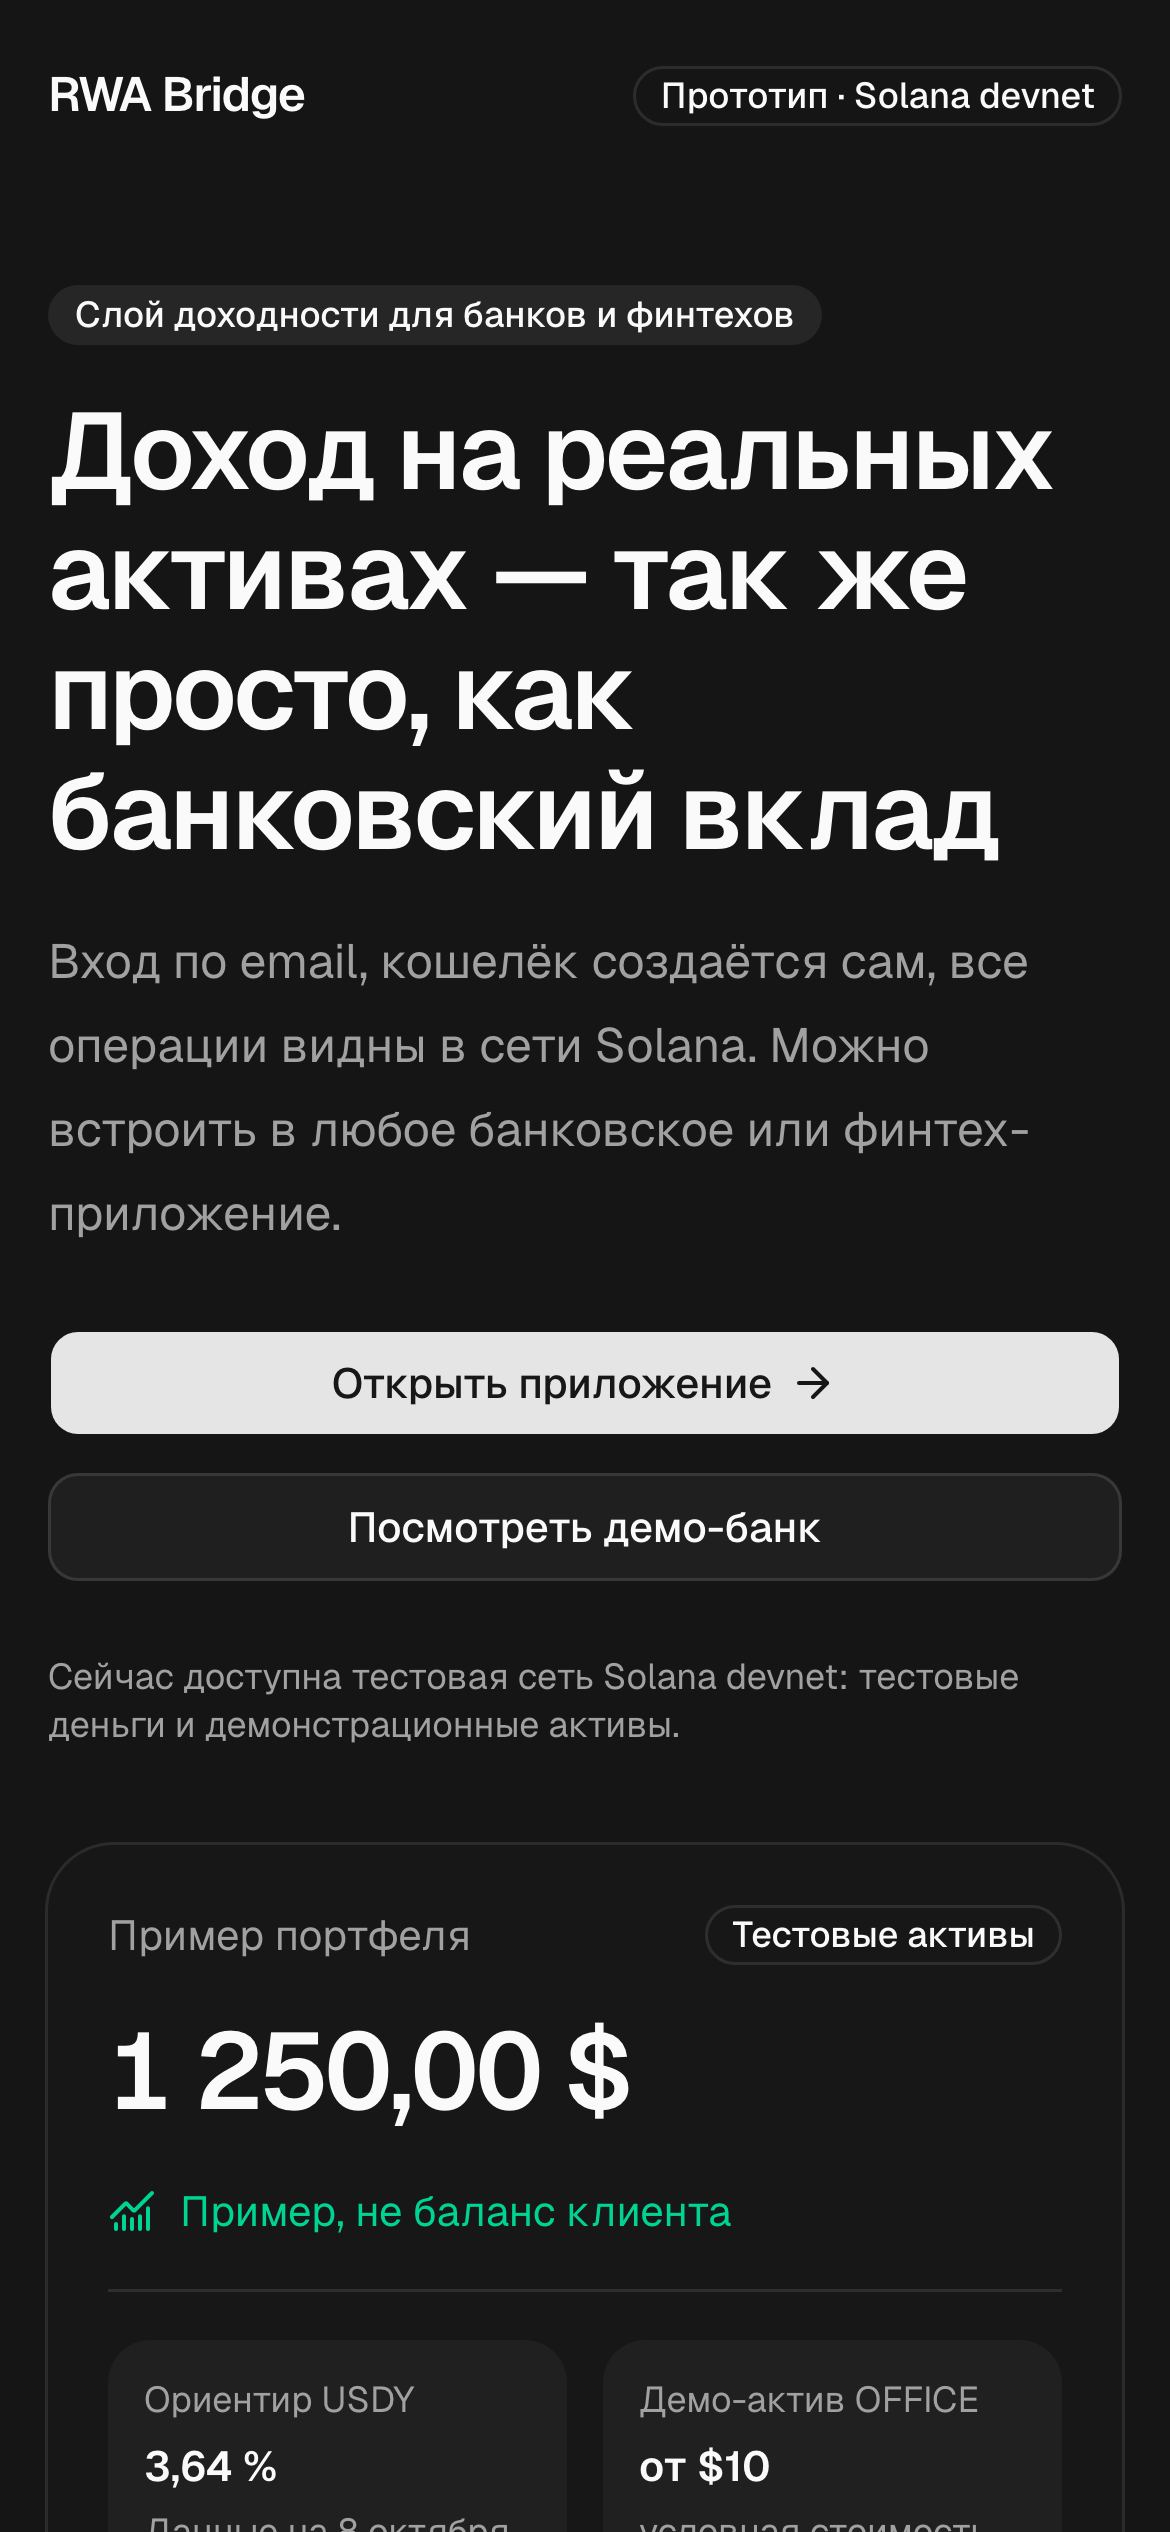
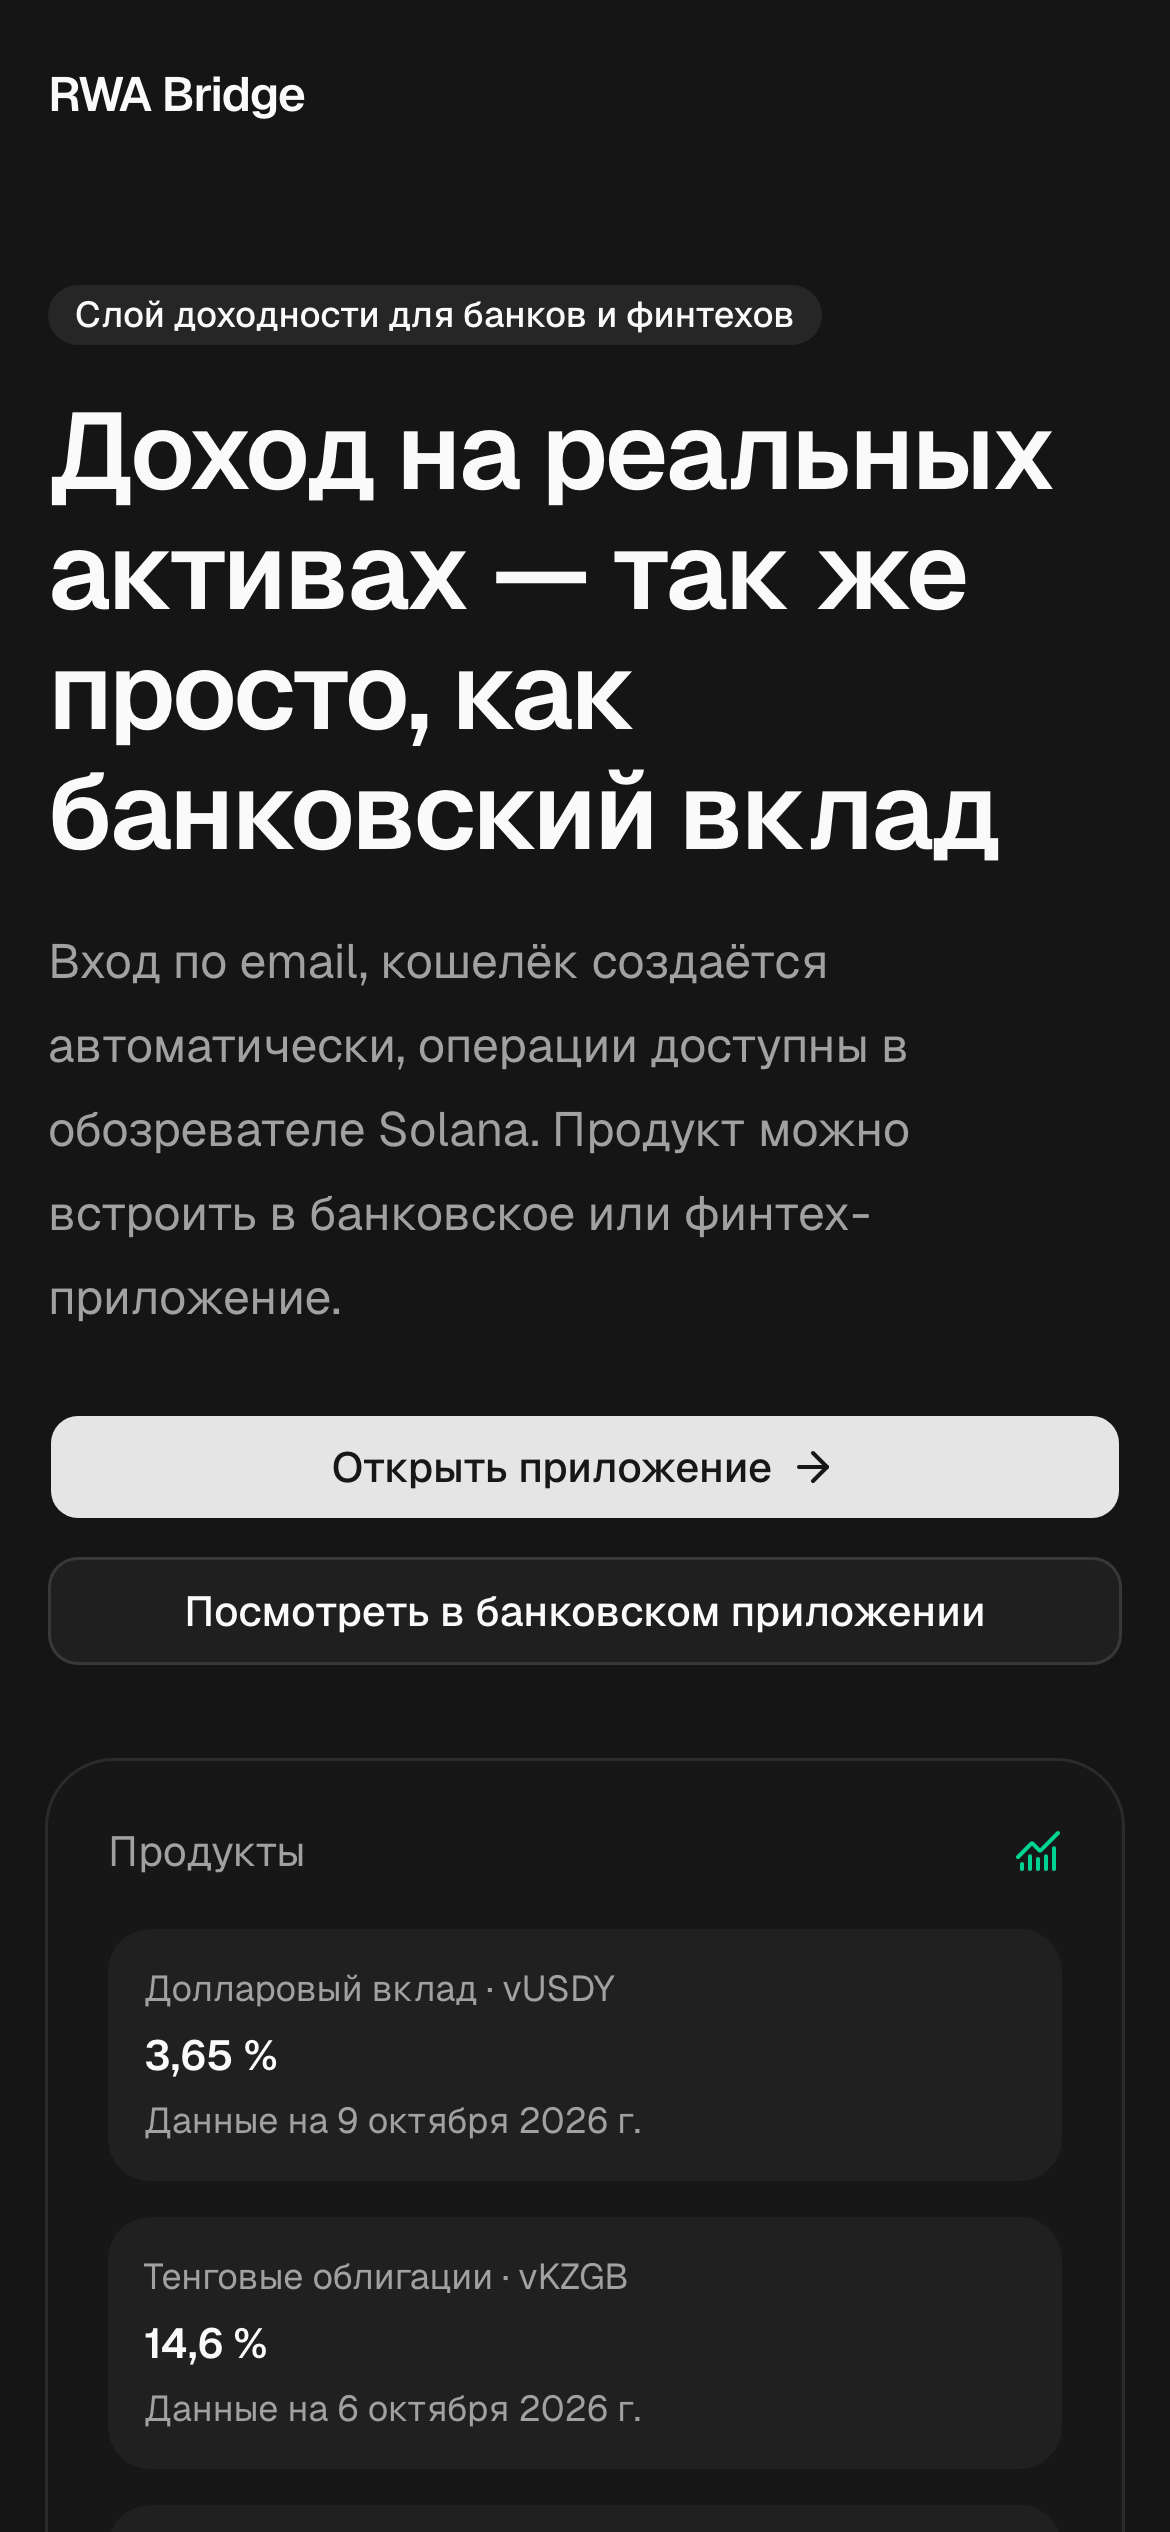
Refresh screenshots and tasks after removing demo mode

diff --git a/TASKS.md b/TASKS.md
@@ -50,6 +50,8 @@
 
 ## Сделано
 
+- [x] Без демо-режима: вход только по email, всё приложение за входом, продукт в сети devnet; /bank вместо /demo-bank — `b98372c`
+
 - [x] Живые данные с первого кадра, README для жюри (англ.), скриншоты, инструмент скриншотов
 
 - [x] Пакет продукта: полировка, письма через Gmail (проверено тестовым письмом), PWA, MoonPay с двумя IP, состояния загрузки — `4a5b2fb`, задеплоено
